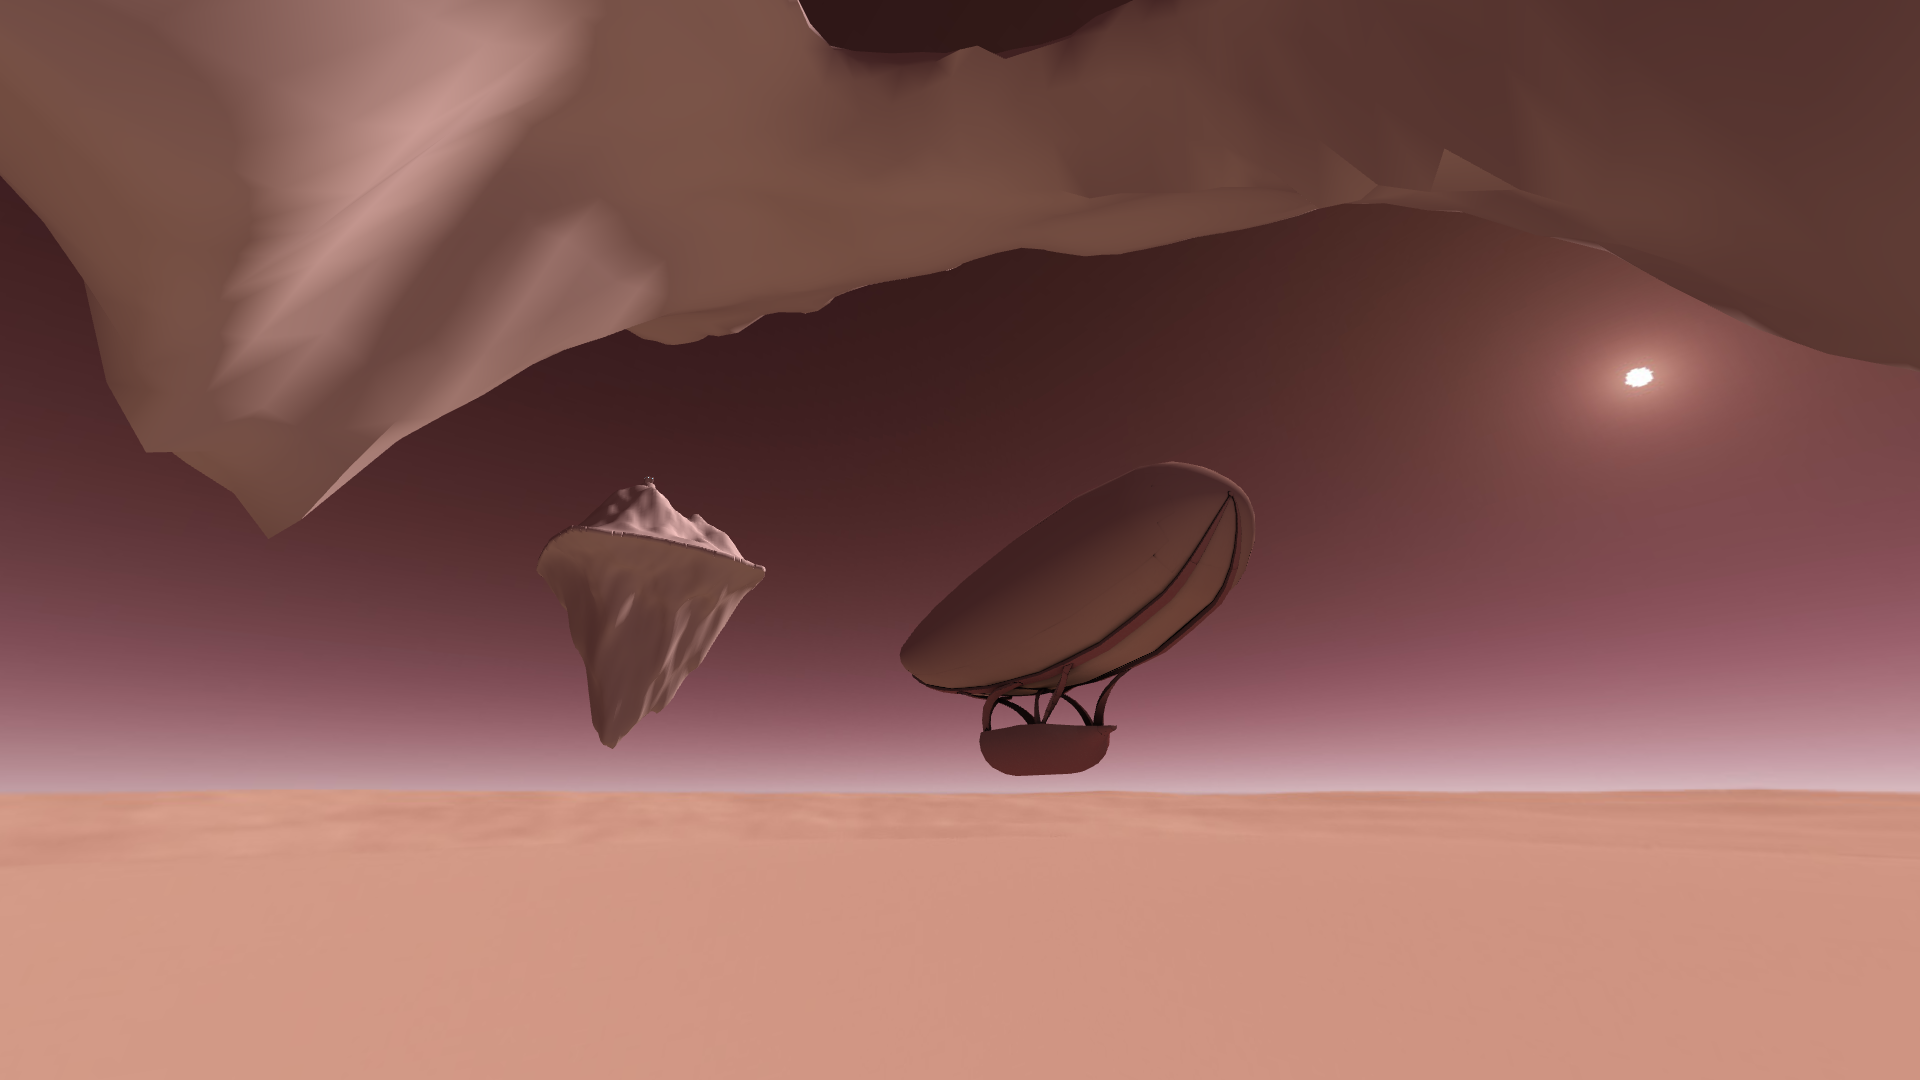
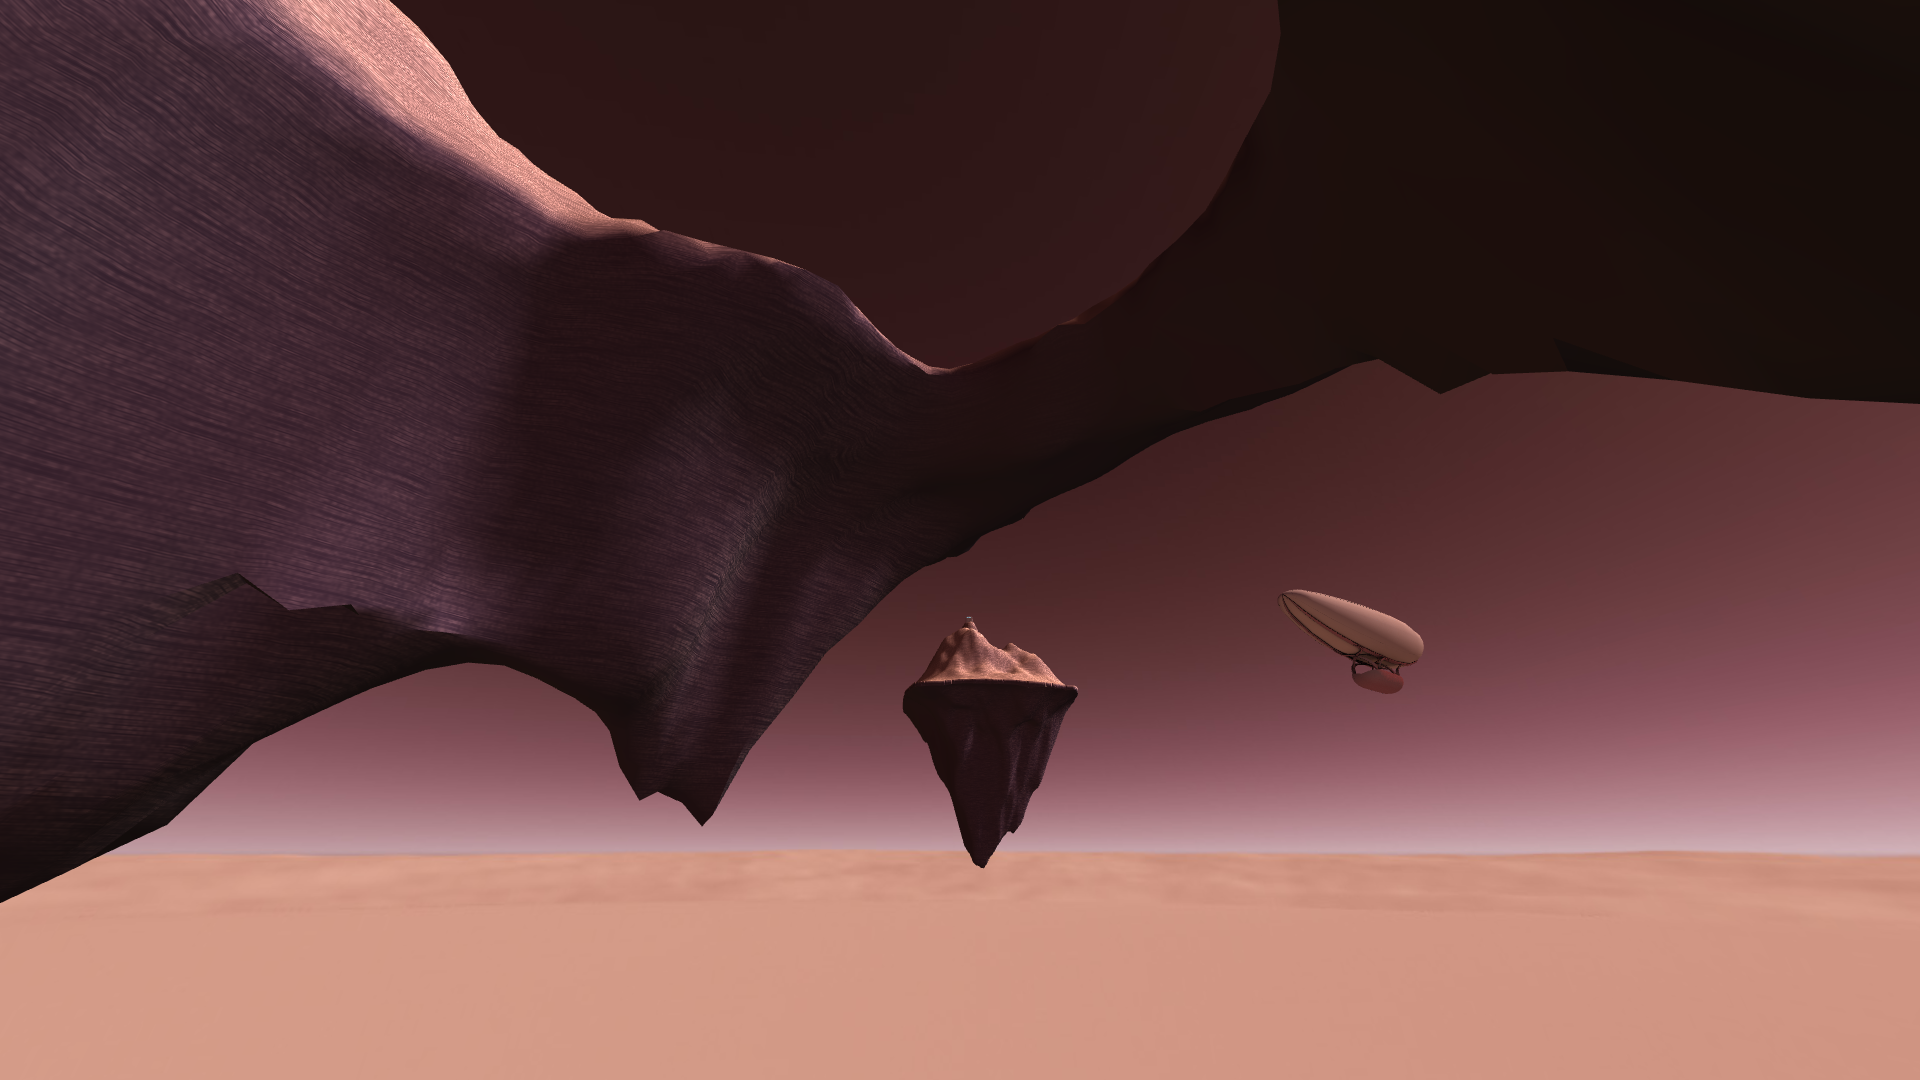
Add island shader

diff --git a/lihowarlib/include/lihowarlib/programs/IslandProgram.hpp b/lihowarlib/include/lihowarlib/programs/IslandProgram.hpp
@@ -14,8 +14,8 @@
  *  listed at the end of the README given in the directory root of the Lihowar repository.
  */
 #pragma once
-#ifndef LIHOWAR_MULTILIGHTSPROGRAM_HPP
-#define LIHOWAR_MULTILIGHTSPROGRAM_HPP
+#ifndef LIHOWAR_ISLANDPROGRAM_HPP
+#define LIHOWAR_ISLANDPROGRAM_HPP
 
 #include <glimac/Program.hpp>
 #include <glimac/FilePath.hpp>
@@ -25,7 +25,7 @@
 
 namespace lihowar {
 
-class MultiLightsProgram : public Program {
+class IslandProgram : public Program {
 
 public:
     static const unsigned int MAX_LIGHTSDIR_COUNT = 4;    // must be the same in the f shader
@@ -36,45 +36,19 @@ private:
     ProgramType _type;
     GLint _uKd;
     GLint _uKs;
-    GLint _uKl;
-    GLint _uKao;
-    GLint _uKn;
     GLint _uShininess;
-    GLint _uHasDiffuseMap;
-    GLint _uHasSpecularMap;
-    GLint _uHasLuminMap;
-    GLint _uHasAOMap;
-    GLint _uHasNormalMap;
-    GLint _uDiffuseMap;
-    GLint _uSpecularMap;
-    GLint _uLuminMap;
-    GLint _uAOMap;
-    GLint _uNormalMap;
     GLint _uLightAmbient;
     GLint _uLightsDirCount;
     GLint _uLightsPointCount;
 
 private:
     // CONSTRUCTORS & DESTRUCTORS
-    MultiLightsProgram(const std::string& vsName, const std::string& fsName)
+    IslandProgram(const std::string& vsName, const std::string& fsName)
        : Program(vsName, fsName),
-         _type( ProgramType::MULTILIGHTS ),
+         _type( ProgramType::ISLAND ),
          _uKd( glGetUniformLocation(_program.getGLId(), "uKd") ),
          _uKs( glGetUniformLocation(_program.getGLId(), "uKs") ),
-         _uKl( glGetUniformLocation(_program.getGLId(), "uKl") ),
-         _uKao( glGetUniformLocation(_program.getGLId(), "uKao") ),
-         _uKn( glGetUniformLocation(_program.getGLId(), "uKn") ),
          _uShininess( glGetUniformLocation(_program.getGLId(), "uShininess") ),
-         _uHasDiffuseMap( glGetUniformLocation(_program.getGLId(), "uHasDiffuseMap") ),
-         _uHasSpecularMap( glGetUniformLocation(_program.getGLId(), "uHasSpecularMap") ),
-         _uHasLuminMap( glGetUniformLocation(_program.getGLId(), "uHasLuminMap") ),
-         _uHasAOMap( glGetUniformLocation(_program.getGLId(), "uHasAOMap") ),
-         _uHasNormalMap( glGetUniformLocation(_program.getGLId(), "uHasNormalMap") ),
-         _uDiffuseMap( glGetUniformLocation(_program.getGLId(), "uDiffuseMap") ),
-         _uSpecularMap( glGetUniformLocation(_program.getGLId(), "uSpecularMap") ),
-         _uLuminMap( glGetUniformLocation(_program.getGLId(), "uLuminMap") ),
-         _uAOMap( glGetUniformLocation(_program.getGLId(), "uAOMap") ),
-         _uNormalMap( glGetUniformLocation(_program.getGLId(), "uNormalMap") ),
          _uLightAmbient( glGetUniformLocation(_program.getGLId(), "uLightAmbient") ),
          _uLightsDirCount( glGetUniformLocation(_program.getGLId(), "uLightsDirCount") ),
          _uLightsPointCount( glGetUniformLocation(_program.getGLId(), "uLightsPointCount") )
@@ -82,8 +56,8 @@ private:
 
 public:
     /// \brief get instance of the Program singleton class
-    static MultiLightsProgram& instance() {
-        static MultiLightsProgram instance("3D", "multilights");
+    static IslandProgram& instance() {
+        static IslandProgram instance("island", "island");
         return instance;
     }
 
@@ -92,20 +66,7 @@ public:
     ProgramType type() const override { return _type; }
     GLint uKd() const { return _uKd; }
     GLint uKs() const { return _uKs; }
-    GLint uKl() const { return _uKl; }
-    GLint uKao() const { return _uKao; }
-    GLint uKn() const { return _uKn; }
     GLint uShininess() const { return _uShininess; }
-    GLint uHasDiffuseMap() const { return _uHasDiffuseMap; }
-    GLint uHasSpecularMap() const { return _uHasSpecularMap; }
-    GLint uHasLuminMap() const { return _uHasLuminMap; }
-    GLint uHasAOMap() const { return _uHasAOMap; }
-    GLint uHasNormalMap() const { return _uHasNormalMap; }
-    GLint uDiffuseMap() const { return _uDiffuseMap; }
-    GLint uSpecularMap() const { return _uSpecularMap; }
-    GLint uLuminMap() const { return _uLuminMap; }
-    GLint uAOMap() const { return _uAOMap; }
-    GLint uNormalMap() const { return _uNormalMap; }
     GLint uLightAmbient() const { return _uLightAmbient; }
     GLint uLightsDirCount() const { return _uLightsDirCount; }
     GLint uLightsPointCount() const { return _uLightsPointCount; }
@@ -125,9 +86,8 @@ public:
         return glGetUniformLocation(_program.getGLId(), varname.c_str());
     }
 
-
 };
 
 }
 
-#endif //LIHOWAR_MULTILIGHTSPROGRAM_HPP
+#endif //LIHOWAR_ISLANDPROGRAM_HPP

diff --git a/lihowarlib/src/GameRenderer.cpp b/lihowarlib/src/GameRenderer.cpp
@@ -16,7 +16,7 @@
 #include <lihowarlib/GameRenderer.hpp>
 #include <lihowarlib/programs/Program.hpp>
 #include <lihowarlib/programs/DirLightProgram.hpp>
-#include <lihowarlib/programs/NormalProgram.hpp>
+#include <lihowarlib/programs/IslandProgram.hpp>
 #include <lihowarlib/programs/MultiLightsProgram.hpp>
 #include <lihowarlib/LightDirectional.hpp>
 #include <lihowarlib/LightPoint.hpp>
@@ -39,9 +39,6 @@ GameRenderer::GameRenderer(Player &camTarget)
     if (cfg::USE_ANTIALIASING)
         glEnable(GL_MULTISAMPLE);
 }
-
-
-GameRenderer::~GameRenderer() {}
 
 
 void GameRenderer::use(Program &program)
@@ -74,6 +71,40 @@ void GameRenderer::bindUniformVariables(const Object &object, const Scene &scene
             glUniform3fv(p.uLightDir(), 1, glm::value_ptr( glm::normalize(glm::vec3(lightDir)) ));
             glUniform3fv(p.uLightIntensity(), 1, glm::value_ptr( glm::vec3(1.) ));
             glUniform1i(p.uHasTexture(), object.material().hasDiffuseMap() );
+            break;
+        }
+        case ProgramType::ISLAND:
+        {
+            IslandProgram &p = *( dynamic_cast<IslandProgram*>(_program) );
+            glUniform1f(p.uKd(), object.material().kd());
+            glUniform1f(p.uKs(), object.material().ks());
+            glUniform1f(p.uShininess(), object.material().shininess());
+            glUniform3fv(p.uLightAmbient(), 1, glm::value_ptr( scene.lightAmbient().intensity() ));
+
+            unsigned int ldIndex = 0; // LightDirectional array index cursor
+            unsigned int lpIndex = 0; // LightoPoint array index cursor
+            auto it = scene.lights().begin();
+            while (it != scene.lights().end()) {
+                auto *ld = dynamic_cast<LightDirectional*>(it->get());
+                auto *lp = dynamic_cast<LightPoint*>(it->get());
+                if (nullptr != ld) {
+                    // downcast to LightDirectional succeeded
+                    glUniform3fv(p.uLightsDir(ldIndex, "dir"), 1, glm::value_ptr( _matView * glm::vec4(ld->dir(), 0.) ));
+                    glUniform3fv(p.uLightsDir(ldIndex, "intensity"), 1, glm::value_ptr( ld->intensity() ));
+                    ldIndex++;
+                } else if (nullptr != lp){
+                    // downcast to LightPoint succeeded
+                    glUniform3fv(p.uLightsPoint(lpIndex, "pos"), 1, glm::value_ptr( _matView * glm::vec4(lp->pos(), 1.) ));
+                    glUniform3fv(p.uLightsPoint(lpIndex, "intensity"), 1, glm::value_ptr( lp->intensity() ));
+                    lpIndex++;
+                } else {
+                    throw LihowarException("Downcast Light instance failed", __FILE__, __LINE__);
+                }
+                ++it;
+            }
+
+            glUniform1i(p.uLightsDirCount(), ldIndex );
+            glUniform1i(p.uLightsPointCount(), lpIndex );
             break;
         }
         case ProgramType::MULTILIGHTS:
@@ -156,14 +187,12 @@ void GameRenderer::render(const Scene &scene)
     glEnable(GL_DEPTH_TEST);
     glClear(GL_COLOR_BUFFER_BIT | GL_DEPTH_BUFFER_BIT);
 
-    use(SkyboxProgram::instance());
+    //use(SkyboxProgram::instance());
     render(scene, scene.skybox());
-
-    use(NormalProgram::instance());
-    use(MultiLightsProgram::instance());
+    //use(MultiLightsProgram::instance());
     render(scene, scene.player());
-    render(scene, scene.islands());
     render(scene, scene.objects());
+    render(scene, scene.islands());
 }
 
 
@@ -198,6 +227,13 @@ void GameRenderer::render(
         const Object &object,
         const glm::mat4 &matModelParent)
 {
+    if (object.isInstanceOf<Island>())
+        use(IslandProgram::instance());
+    else if (object.isInstanceOf<Skybox>())
+        use(SkyboxProgram::instance());
+    else
+        use(MultiLightsProgram::instance());
+
     updateMatMV(matModelParent * object.matModel());
     bindUniformVariables(object, scene);
     object.render();

diff --git a/lihowarlib/include/lihowarlib/Object.hpp b/lihowarlib/include/lihowarlib/Object.hpp
@@ -111,6 +111,9 @@ public:
     std::list< std::unique_ptr<Object> > &subobjects() { return _subobjects; }
     const std::list< std::unique_ptr<Object> > &subobjects() const { return _subobjects; }
 
+    template <typename T>
+    bool isInstanceOf() const { return nullptr != dynamic_cast<const T*>(this); }
+
     virtual void add(std::unique_ptr<Object> object);
     virtual void add(Object *object) { add(std::unique_ptr<Object>(object)); }
 

diff --git a/lihowarlib/include/lihowarlib/GameRenderer.hpp b/lihowarlib/include/lihowarlib/GameRenderer.hpp
@@ -40,8 +40,8 @@ private:
 
 private:
     // CONSTRUCTORS & DESTRUCTORS
-    GameRenderer(Player &camTarget);
-    ~GameRenderer() override;
+    explicit GameRenderer(Player &camTarget);
+    ~GameRenderer() override = default;
 
 public:
     /// \brief get instance of the GameRenderer singleton class

diff --git a/lihowarlib/include/lihowarlib/programs/Program.hpp b/lihowarlib/include/lihowarlib/programs/Program.hpp
@@ -23,7 +23,7 @@
 namespace lihowar {
 
 enum class ProgramType {
-    NORMAL, SKYBOX, DIRLIGHT, MULTILIGHTS
+    NORMAL, SKYBOX, DIRLIGHT, MULTILIGHTS, ISLAND
 };
 
 class Program {
